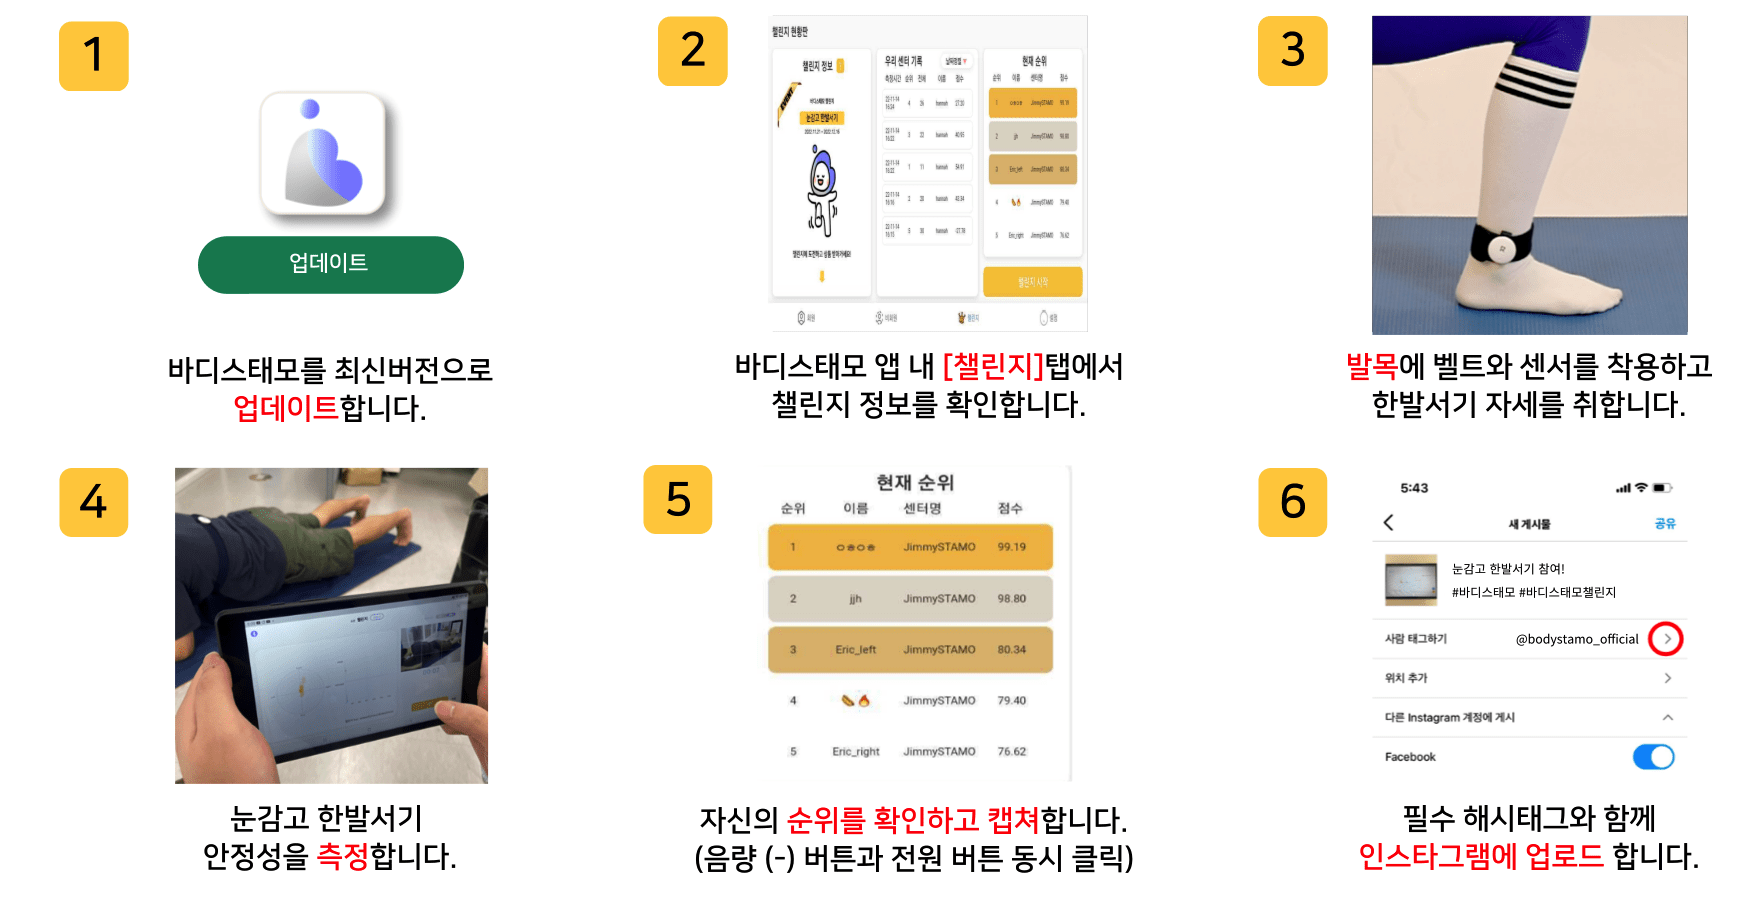
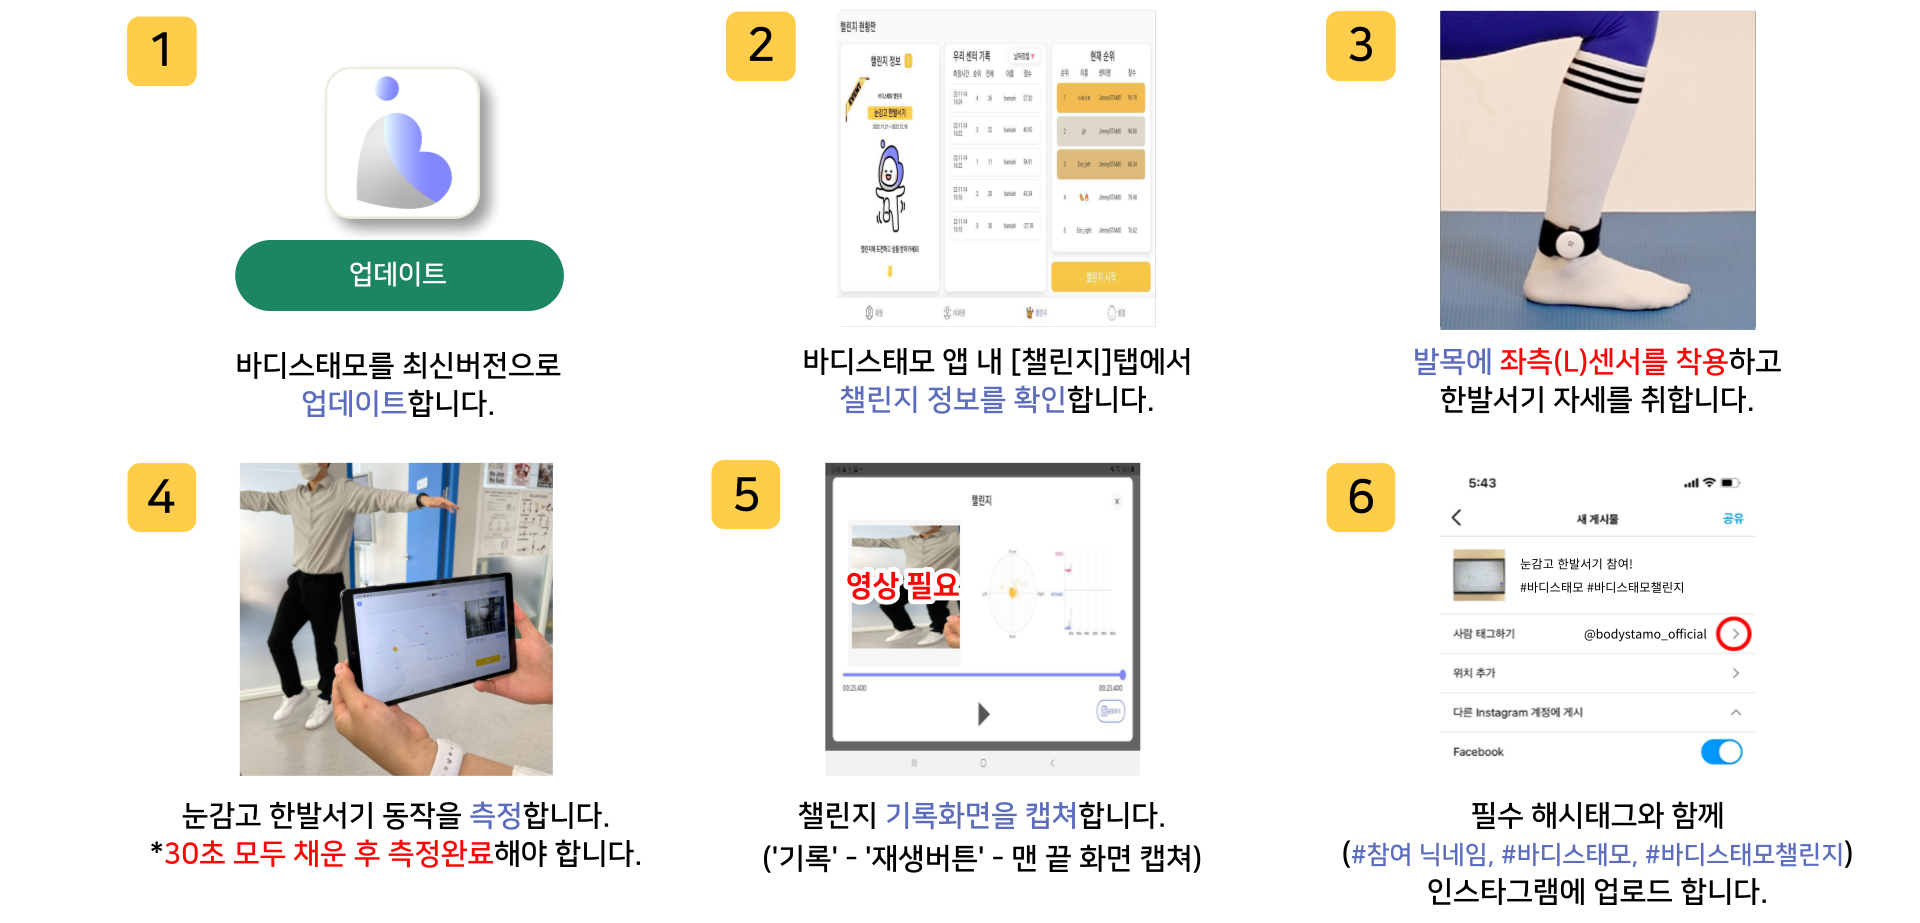
c2202 챌린지 정보, 방법 이미지 수정

diff --git a/challenge/info.html b/challenge/info.html
@@ -77,7 +77,7 @@
 <!--    </div>-->
 <div>
     <p><img id="image_box1" src="../images/challenge/c2202/c2202-01.png"></p>
-    <p><img id="image_box2" src="../images/challenge/c2202/c2202-02.png"></p>
+<!--    <p><img id="image_box2" src="../images/challenge/c2202/c2202-02.png"></p>-->
 </div>
 
 </body>
